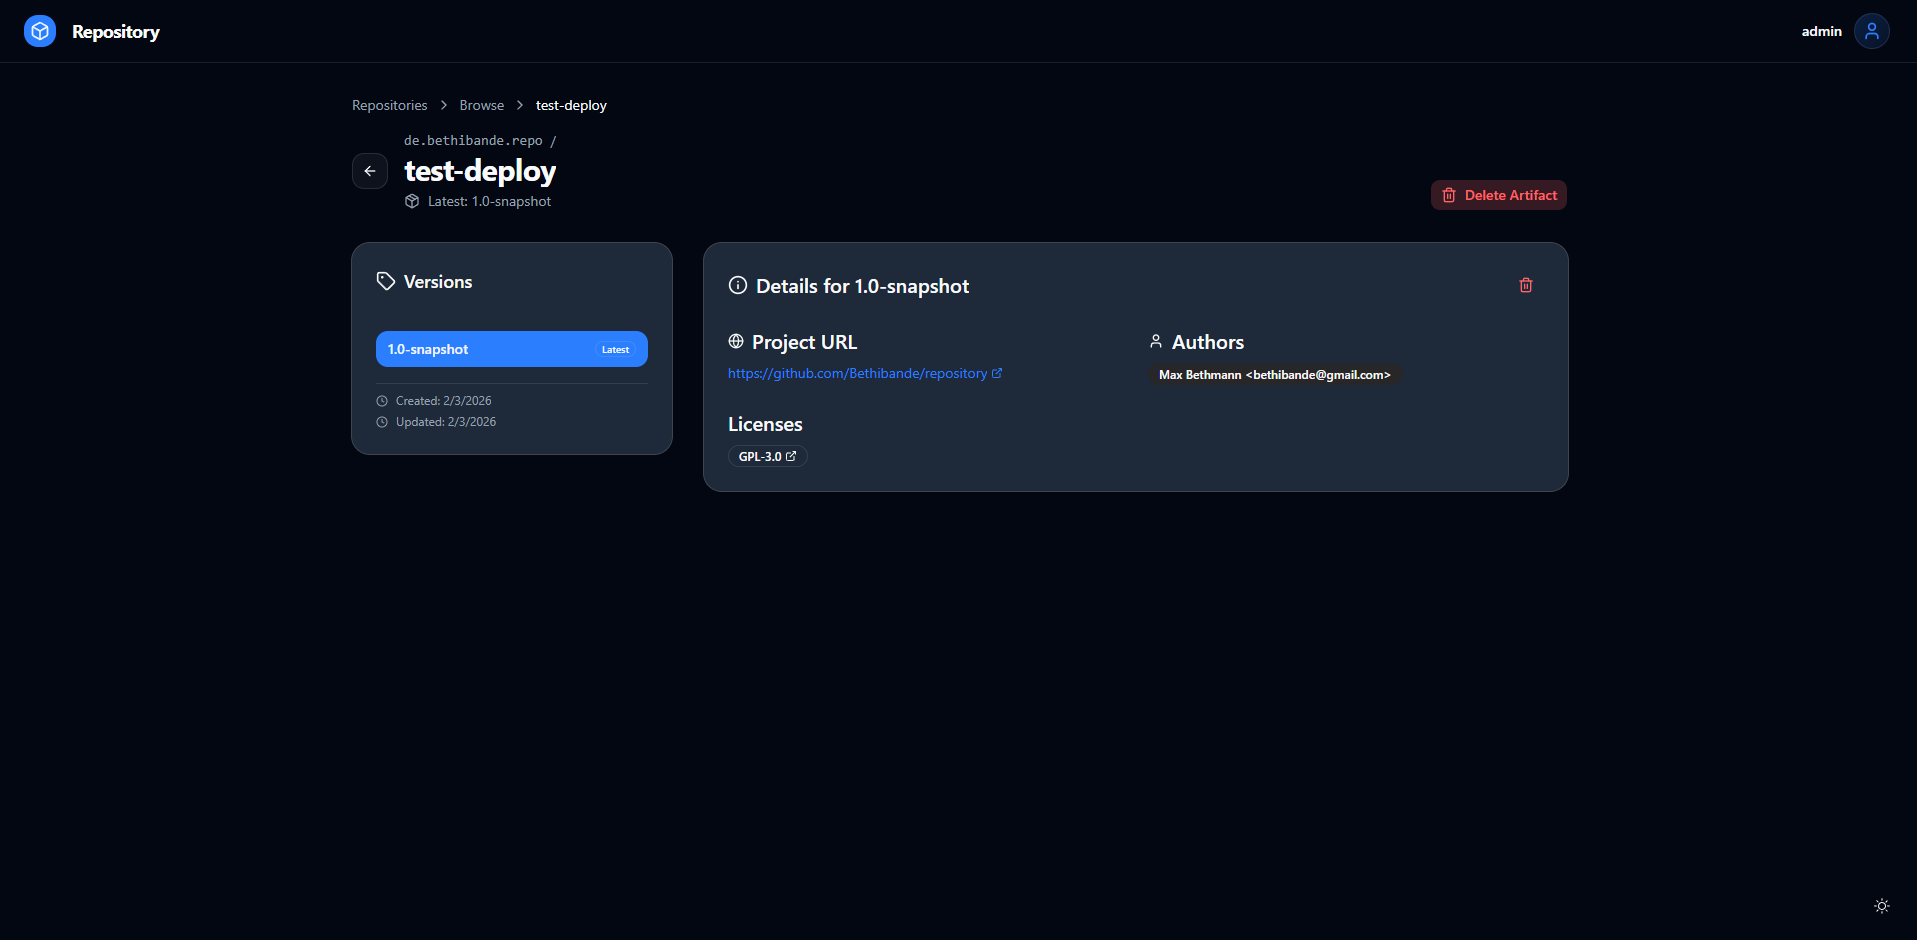
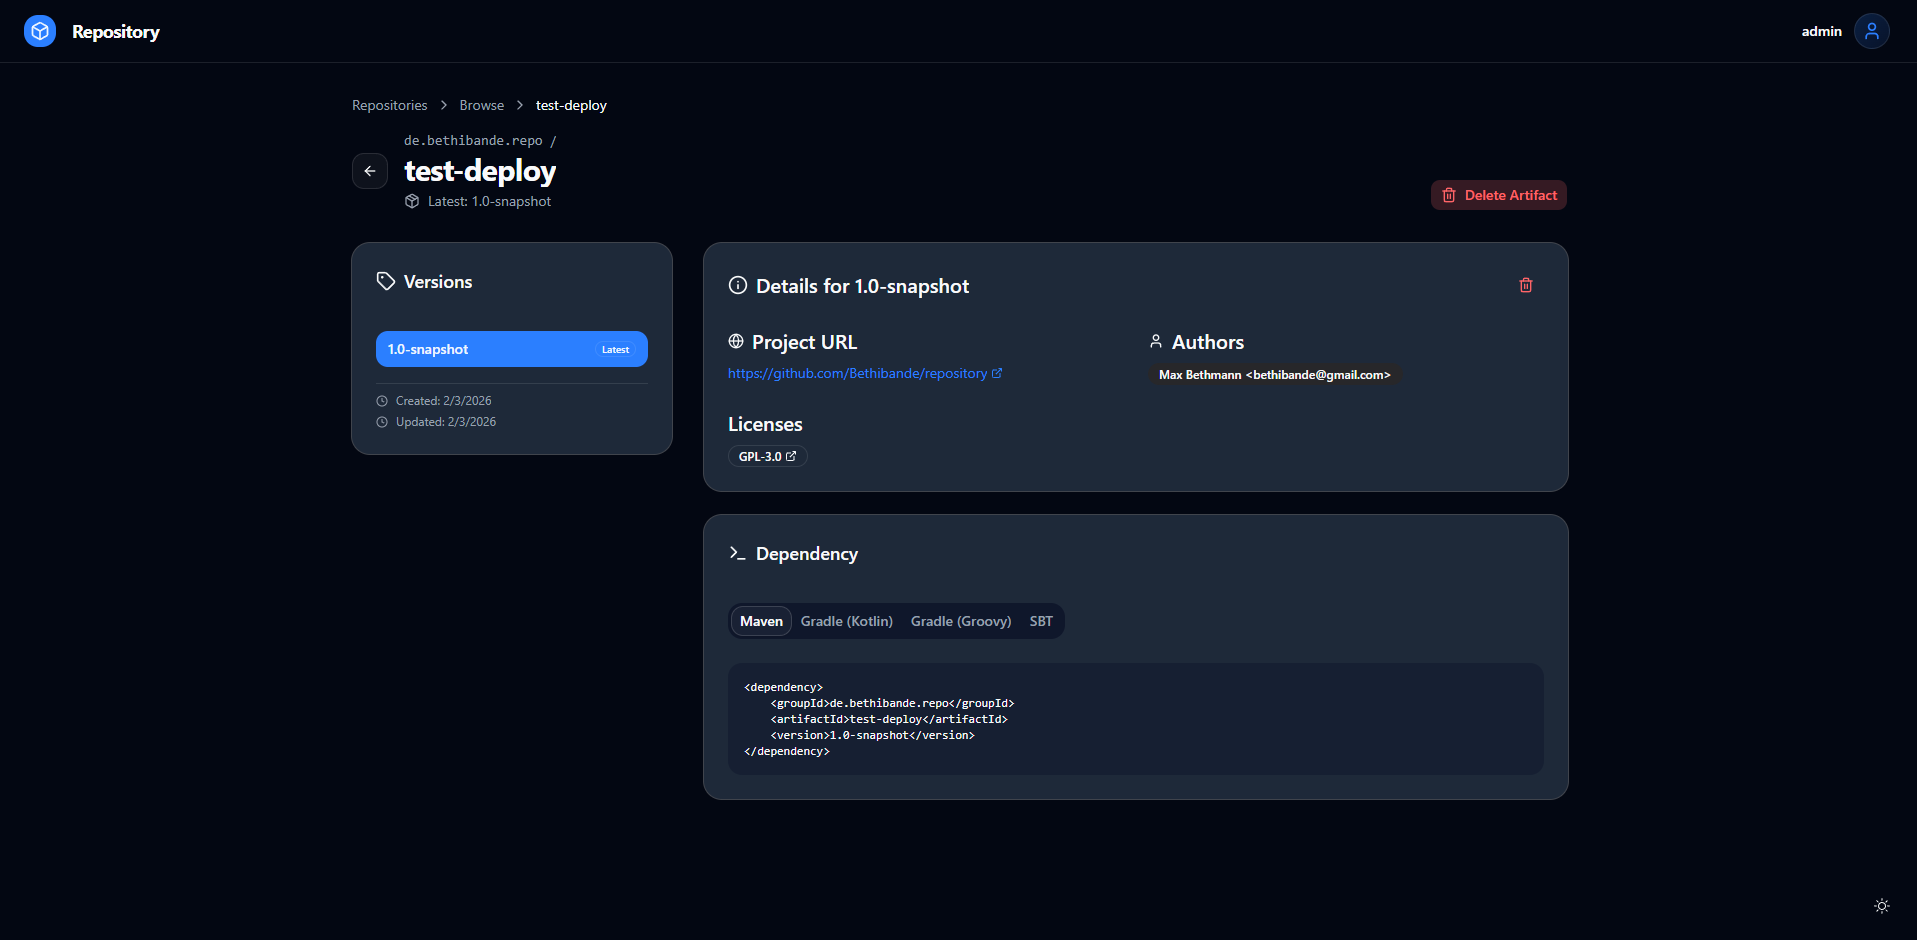
fix usage card

Changed region(s): [[0.3693, 0.5245, 0.831, 0.8638]]

diff --git a/server/src/main/webui/src/view/dashboard/ArtifactView.tsx b/server/src/main/webui/src/view/dashboard/ArtifactView.tsx
@@ -3,7 +3,7 @@ import {useEffect, useState} from "react";
 import {
     type ArtifactDTO,
     ArtifactEndpointApi,
-    type ArtifactVersionDTO,
+    type ArtifactVersionDTO, PackageManager,
     type PagedResponseArtifactVersionDTO,
     RepositoryEndpointApi,
     type RepositoryOverviewDTO
@@ -43,7 +43,7 @@ function UsageDetails({ artifact, version, packageManager }: { artifact: Artifac
     const [copied, setCopied] = useState<string | null>(null);
 
     const getSnippets = (): DependencySnippet[] => {
-        if (packageManager === "MAVEN_3") {
+        if (packageManager === PackageManager.Maven) {
             return [
                 {
                     name: "Maven",
